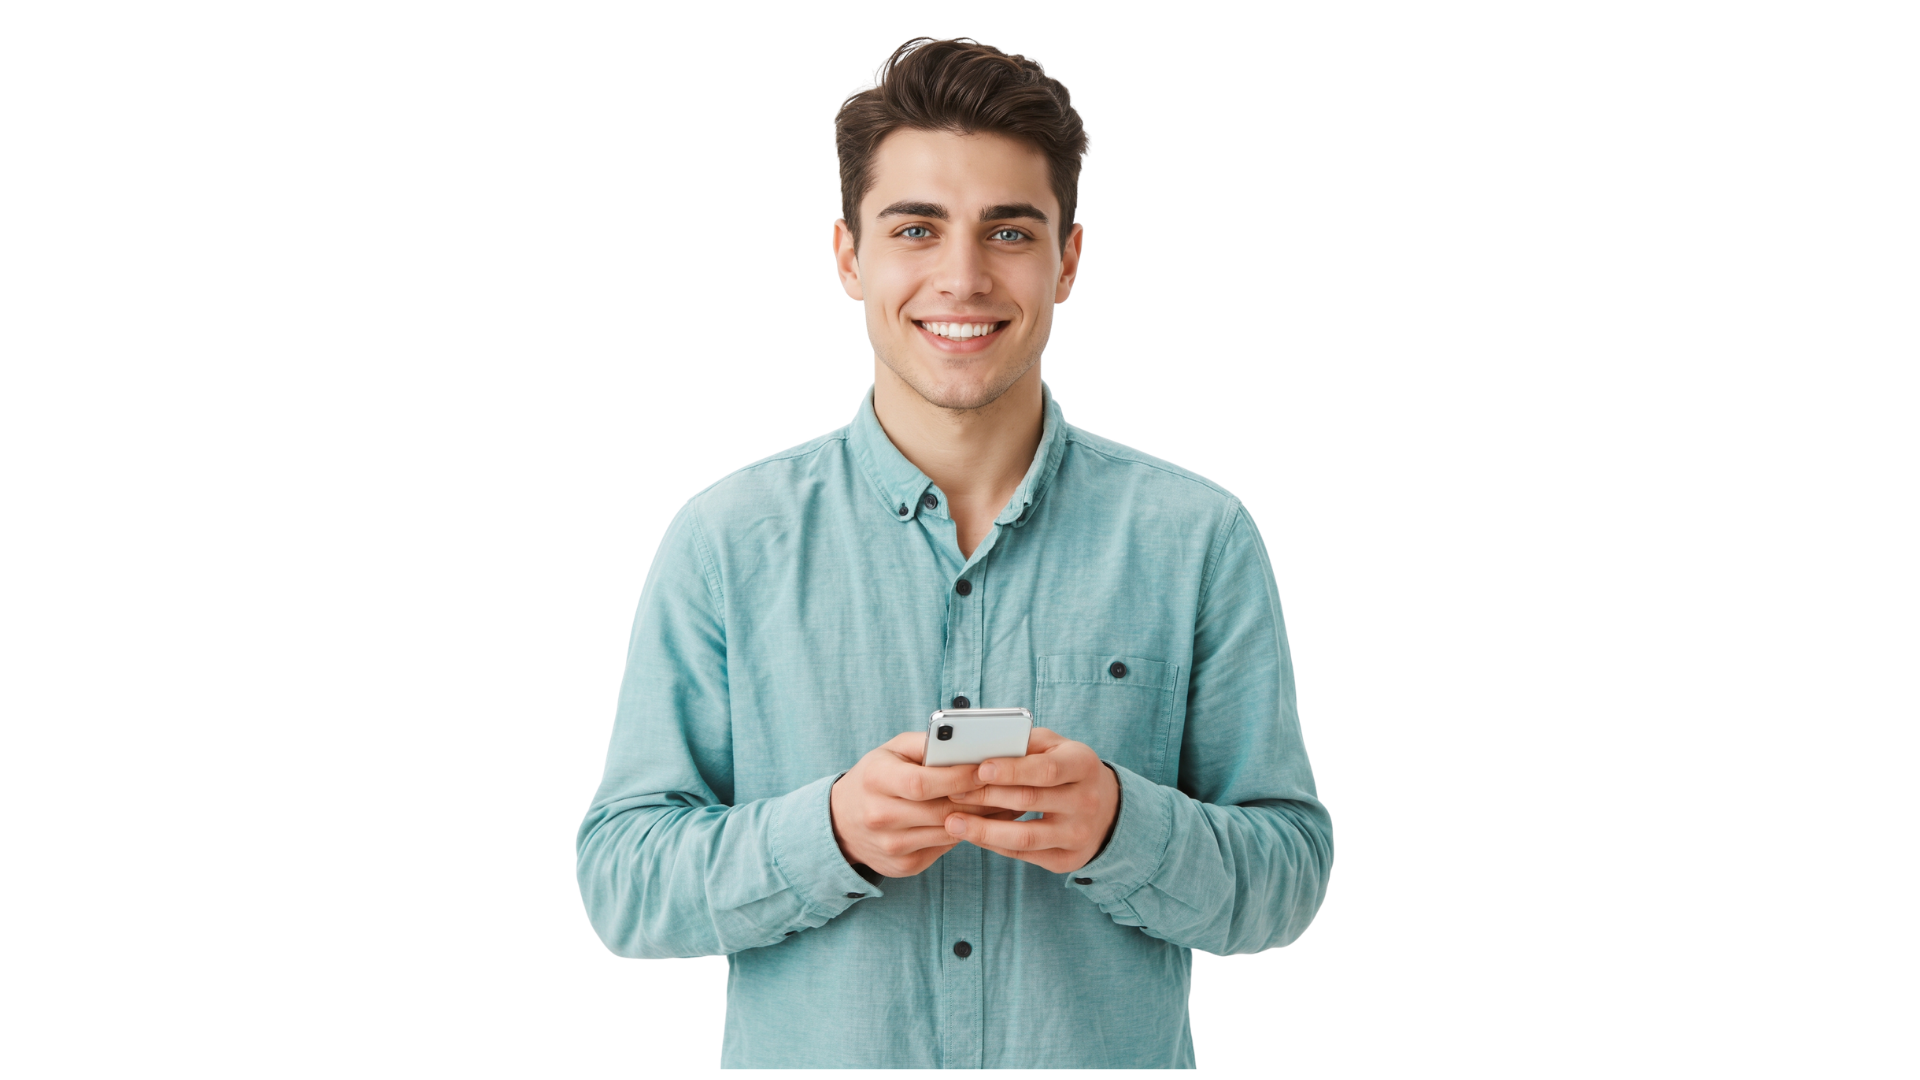
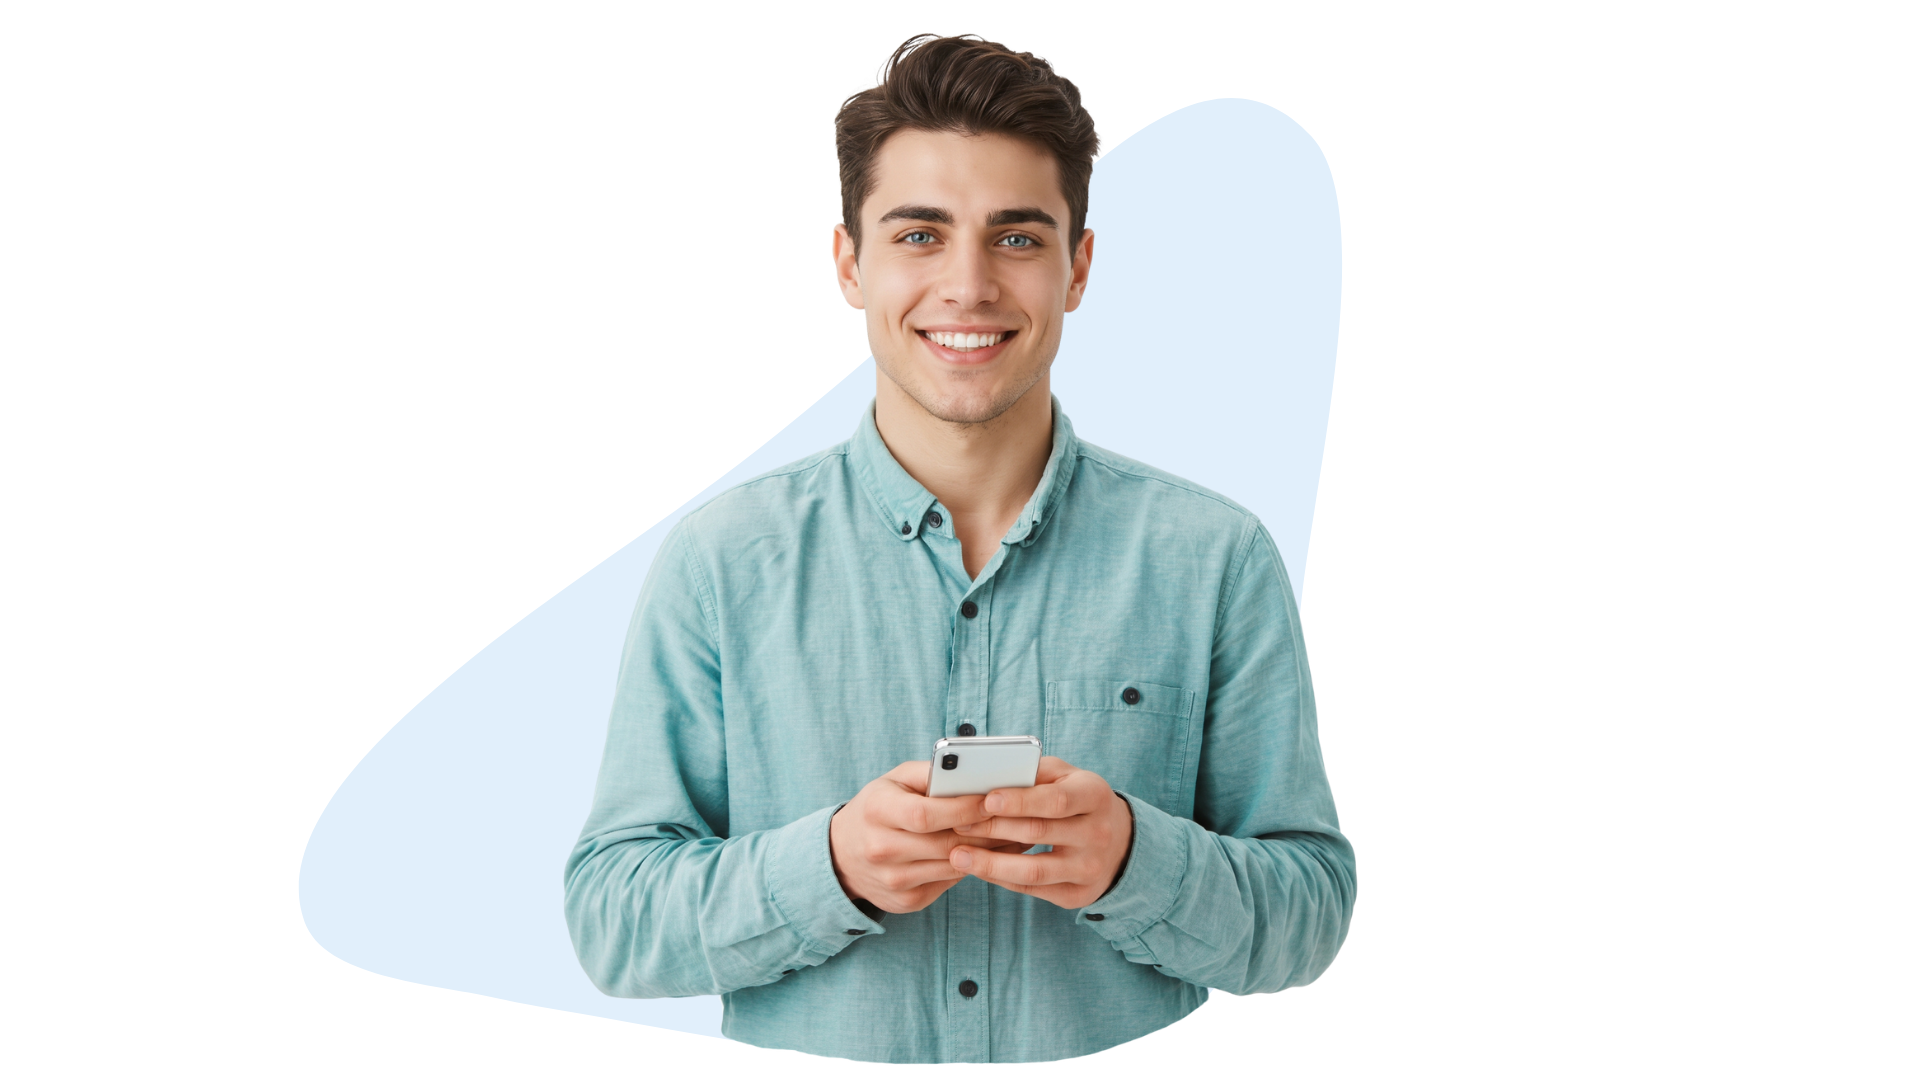
Update SupportChangelog component layout and styling; enhance date formatting and improve text presentation
This commit modifies the SupportChangelog component to improve its layout and visual presentation, including changes to padding and structure. The date formatting function is updated to display days as two digits, and text descriptions in the changelog are adjusted for better readability with line breaks. Additionally, new images for model assets are added to the public directory.

Changed region(s): [[0.1562, 0.0306, 0.7188, 1.0], [0.3438, 0.4583, 0.375, 0.4889]]

diff --git a/components/support/support-changelog.tsx b/components/support/support-changelog.tsx
@@ -14,10 +14,12 @@ function formatDate(value: string, locale: string) {
   }
 
   return new Intl.DateTimeFormat(locale, {
-    day: "numeric",
+    day: "2-digit",
     month: "short",
     year: "numeric",
-  }).format(parsed);
+  })
+    .format(parsed)
+    .replace(/\./g, "");
 }
 
 export function SupportChangelog() {
@@ -28,29 +30,50 @@ export function SupportChangelog() {
   return (
     <section id="novedades" className="scroll-anchor pt-[125px] pb-16 sm:pb-20">
       <SectionContainer>
-        <Reveal>
-          <div className="rounded-2xl bg-white px-6 py-8 sm:px-8">
-            <h2 className="text-[24px] font-bold leading-8 tracking-[0.2px] text-[#404040] sm:text-[30px] sm:leading-9">
-              {t("title")}
-            </h2>
-            <p className="mt-4 max-w-[720px] text-[15px] leading-6 text-[#8E8E8E]">{t("description")}</p>
+        <Reveal className="overflow-visible">
+          {/*
+            pt-[125px] de la section = espacio desde guías hasta la card.
+            La cabeza asoma dentro de esos 125px (sin sumar otro padding).
+          */}
+          <div className="relative overflow-visible">
+            <div className="relative min-h-[310px] overflow-hidden rounded-2xl bg-white sm:min-h-[340px]">
+              <div className="relative z-10 w-full max-w-[640px] px-6 py-8 sm:px-8">
+                <h2 className="text-[24px] font-bold leading-8 tracking-[0.2px] text-[#404040] sm:text-[30px] sm:leading-9">
+                  {t("title")}
+                </h2>
+                <p className="mt-4 whitespace-pre-line text-[15px] leading-6 text-[#8E8E8E]">
+                  {t("description")}
+                </p>
 
-            <ol className="mt-4 divide-y divide-[#D0D4D8] border-t border-[#D0D4D8]">
-              {entries.map((entry) => (
-                <li key={entry.id} className="pt-4">
-                  <div className="flex flex-wrap items-center gap-x-2 text-[13px] text-[#8E8E8E]">
-                    <time dateTime={entry.date}>{formatDate(entry.date, locale)}</time>
-                    {entry.apiAffected ? <span>{entry.apiAffected}</span> : null}
-                  </div>
-                  <h3 className="mt-3 text-[15px] font-semibold tracking-[0.2px] text-[#404040]">
-                    {t(`entries.${entry.id}.title`)}
-                  </h3>
-                  <p className="mt-2 text-[15px] leading-6 text-[#8E8E8E]">
-                    {t(`entries.${entry.id}.description`)}
-                  </p>
-                </li>
-              ))}
-            </ol>
+                <div className="mt-4 h-px w-[min(100%,528px)] bg-[#D0D4D8]" aria-hidden="true" />
+
+                <ol className="mt-4 divide-y divide-[#D0D4D8]">
+                  {entries.map((entry) => (
+                    <li key={entry.id} className="pt-4 first:pt-0">
+                      <p className="text-[13px] text-[#8E8E8E]">
+                        <time dateTime={entry.date}>{formatDate(entry.date, locale)}</time>
+                        {entry.apiAffected ? ` ${entry.apiAffected}` : null}
+                      </p>
+                      <h3 className="mt-3 text-[15px] font-semibold tracking-[0.2px] text-[#404040]">
+                        {t(`entries.${entry.id}.title`)}
+                      </h3>
+                      <p className="mt-2 whitespace-pre-line text-[15px] leading-6 text-[#8E8E8E]">
+                        {t(`entries.${entry.id}.description`)}
+                      </p>
+                    </li>
+                  ))}
+                </ol>
+              </div>
+            </div>
+
+            <div className="pointer-events-none absolute right-0 bottom-0 z-20 hidden h-[calc(100%+2.5rem)] w-[min(52%,560px)] overflow-x-clip sm:block">
+              <img
+                src="/home/images/modelo_mujer.png?v=2"
+                alt=""
+                aria-hidden="true"
+                className="absolute right-0 bottom-0 h-full w-auto max-w-none"
+              />
+            </div>
           </div>
         </Reveal>
       </SectionContainer>
